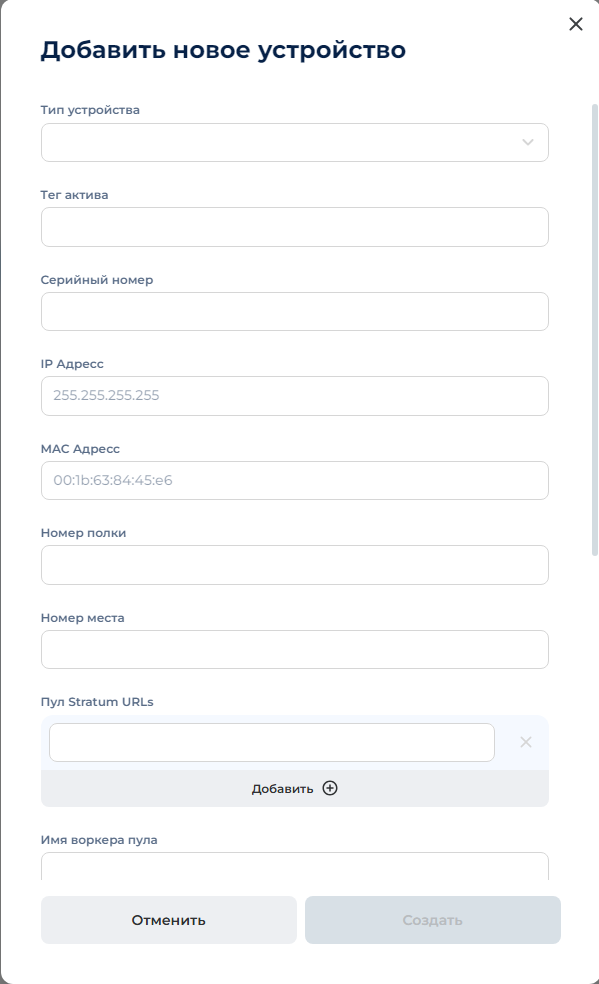
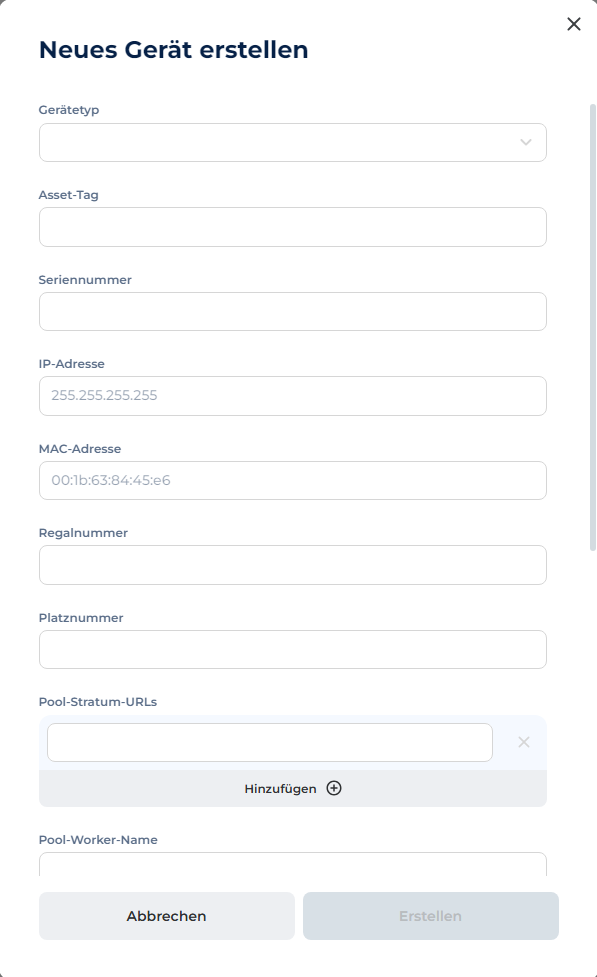
GITBOOK-5: No subject

diff --git a/de/hashcare/opisanie-vkladok/ustroistva.md b/de/hashcare/opisanie-vkladok/ustroistva.md
@@ -32,7 +32,7 @@ Damit ein externer Agent Daten sammeln kann, müssen Geräte mit den angegebenen
 
 • Bearbeiten – Schaltfläche zur Konfiguration der Parameter.
 
-<figure><img src="../../.gitbook/assets/image.png" alt=""><figcaption></figcaption></figure>
+<figure><img src="../../.gitbook/assets/image (1).png" alt=""><figcaption></figcaption></figure>
 
 ## **Erstellen eines Geräts über das Formular**
 
@@ -78,7 +78,7 @@ Damit ein externer Agent Daten sammeln kann, müssen Geräte mit den angegebenen
 
 4\. Auf **Erstellen** klicken.
 
-<figure><img src="../../.gitbook/assets/image (1).png" alt="" width="448"><figcaption></figcaption></figure>
+<figure><img src="../../.gitbook/assets/image (1) (1).png" alt="" width="448"><figcaption></figcaption></figure>
 
 ## **Importieren von Geräten per Liste** <a href="#importirovanie-ustrojstv-spiskom" id="importirovanie-ustrojstv-spiskom"></a>
 

diff --git a/de/pool/opisanie-vkladok/stranica-pribyl.md b/de/pool/opisanie-vkladok/stranica-pribyl.md
@@ -1,10 +1,10 @@
-# 📈 Страница “Прибыль”
+# 📈 Seite „Gewinn“
 
 На странице “Прибыль” представлена информация о ежедневной доходности на момент закрытия каждого дня для всех ваших пулов.
 
 • 🔽 Выбор пула: переключайтесь между пулами с помощью выпадающего меню в правом верхнем углу.
 
-<figure><img src="../../.gitbook/assets/Снимок экрана 2025-02-05 180500.png" alt=""><figcaption></figcaption></figure>
+<figure><img src="../../.gitbook/assets/image.png" alt=""><figcaption></figcaption></figure>
 
 ## **💰 Как рассчитывается общая прибыль?**
 
